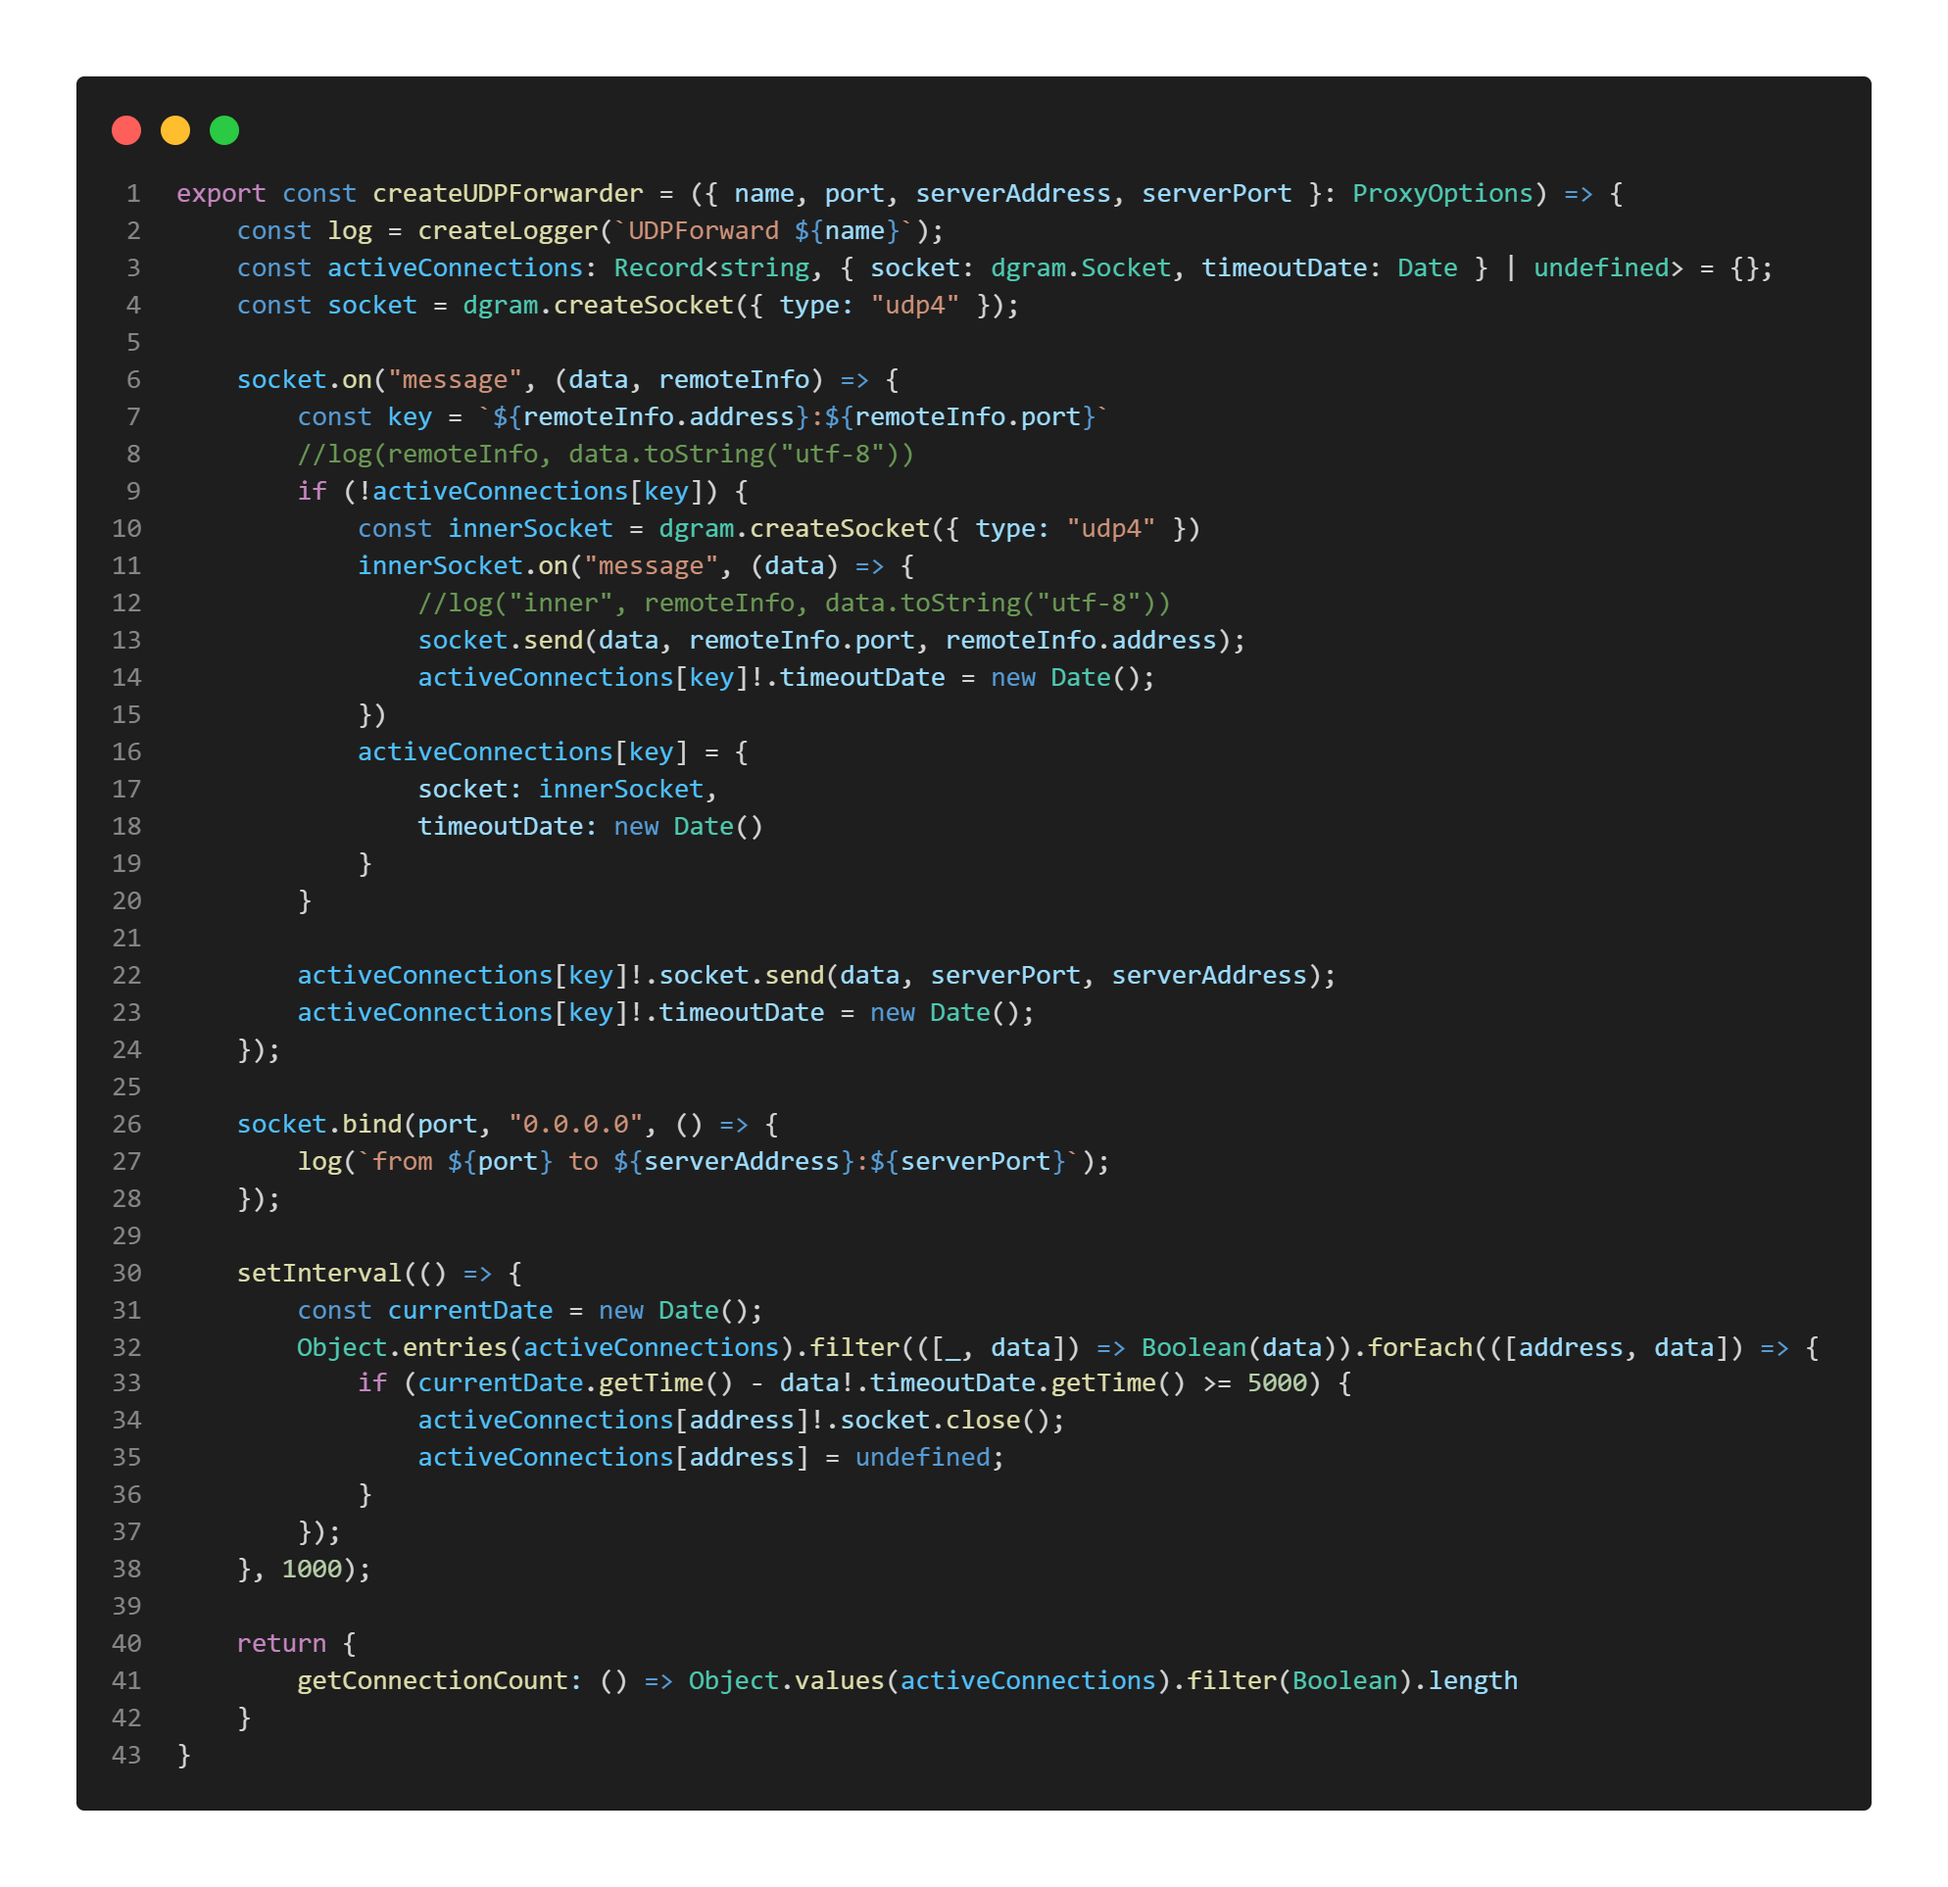
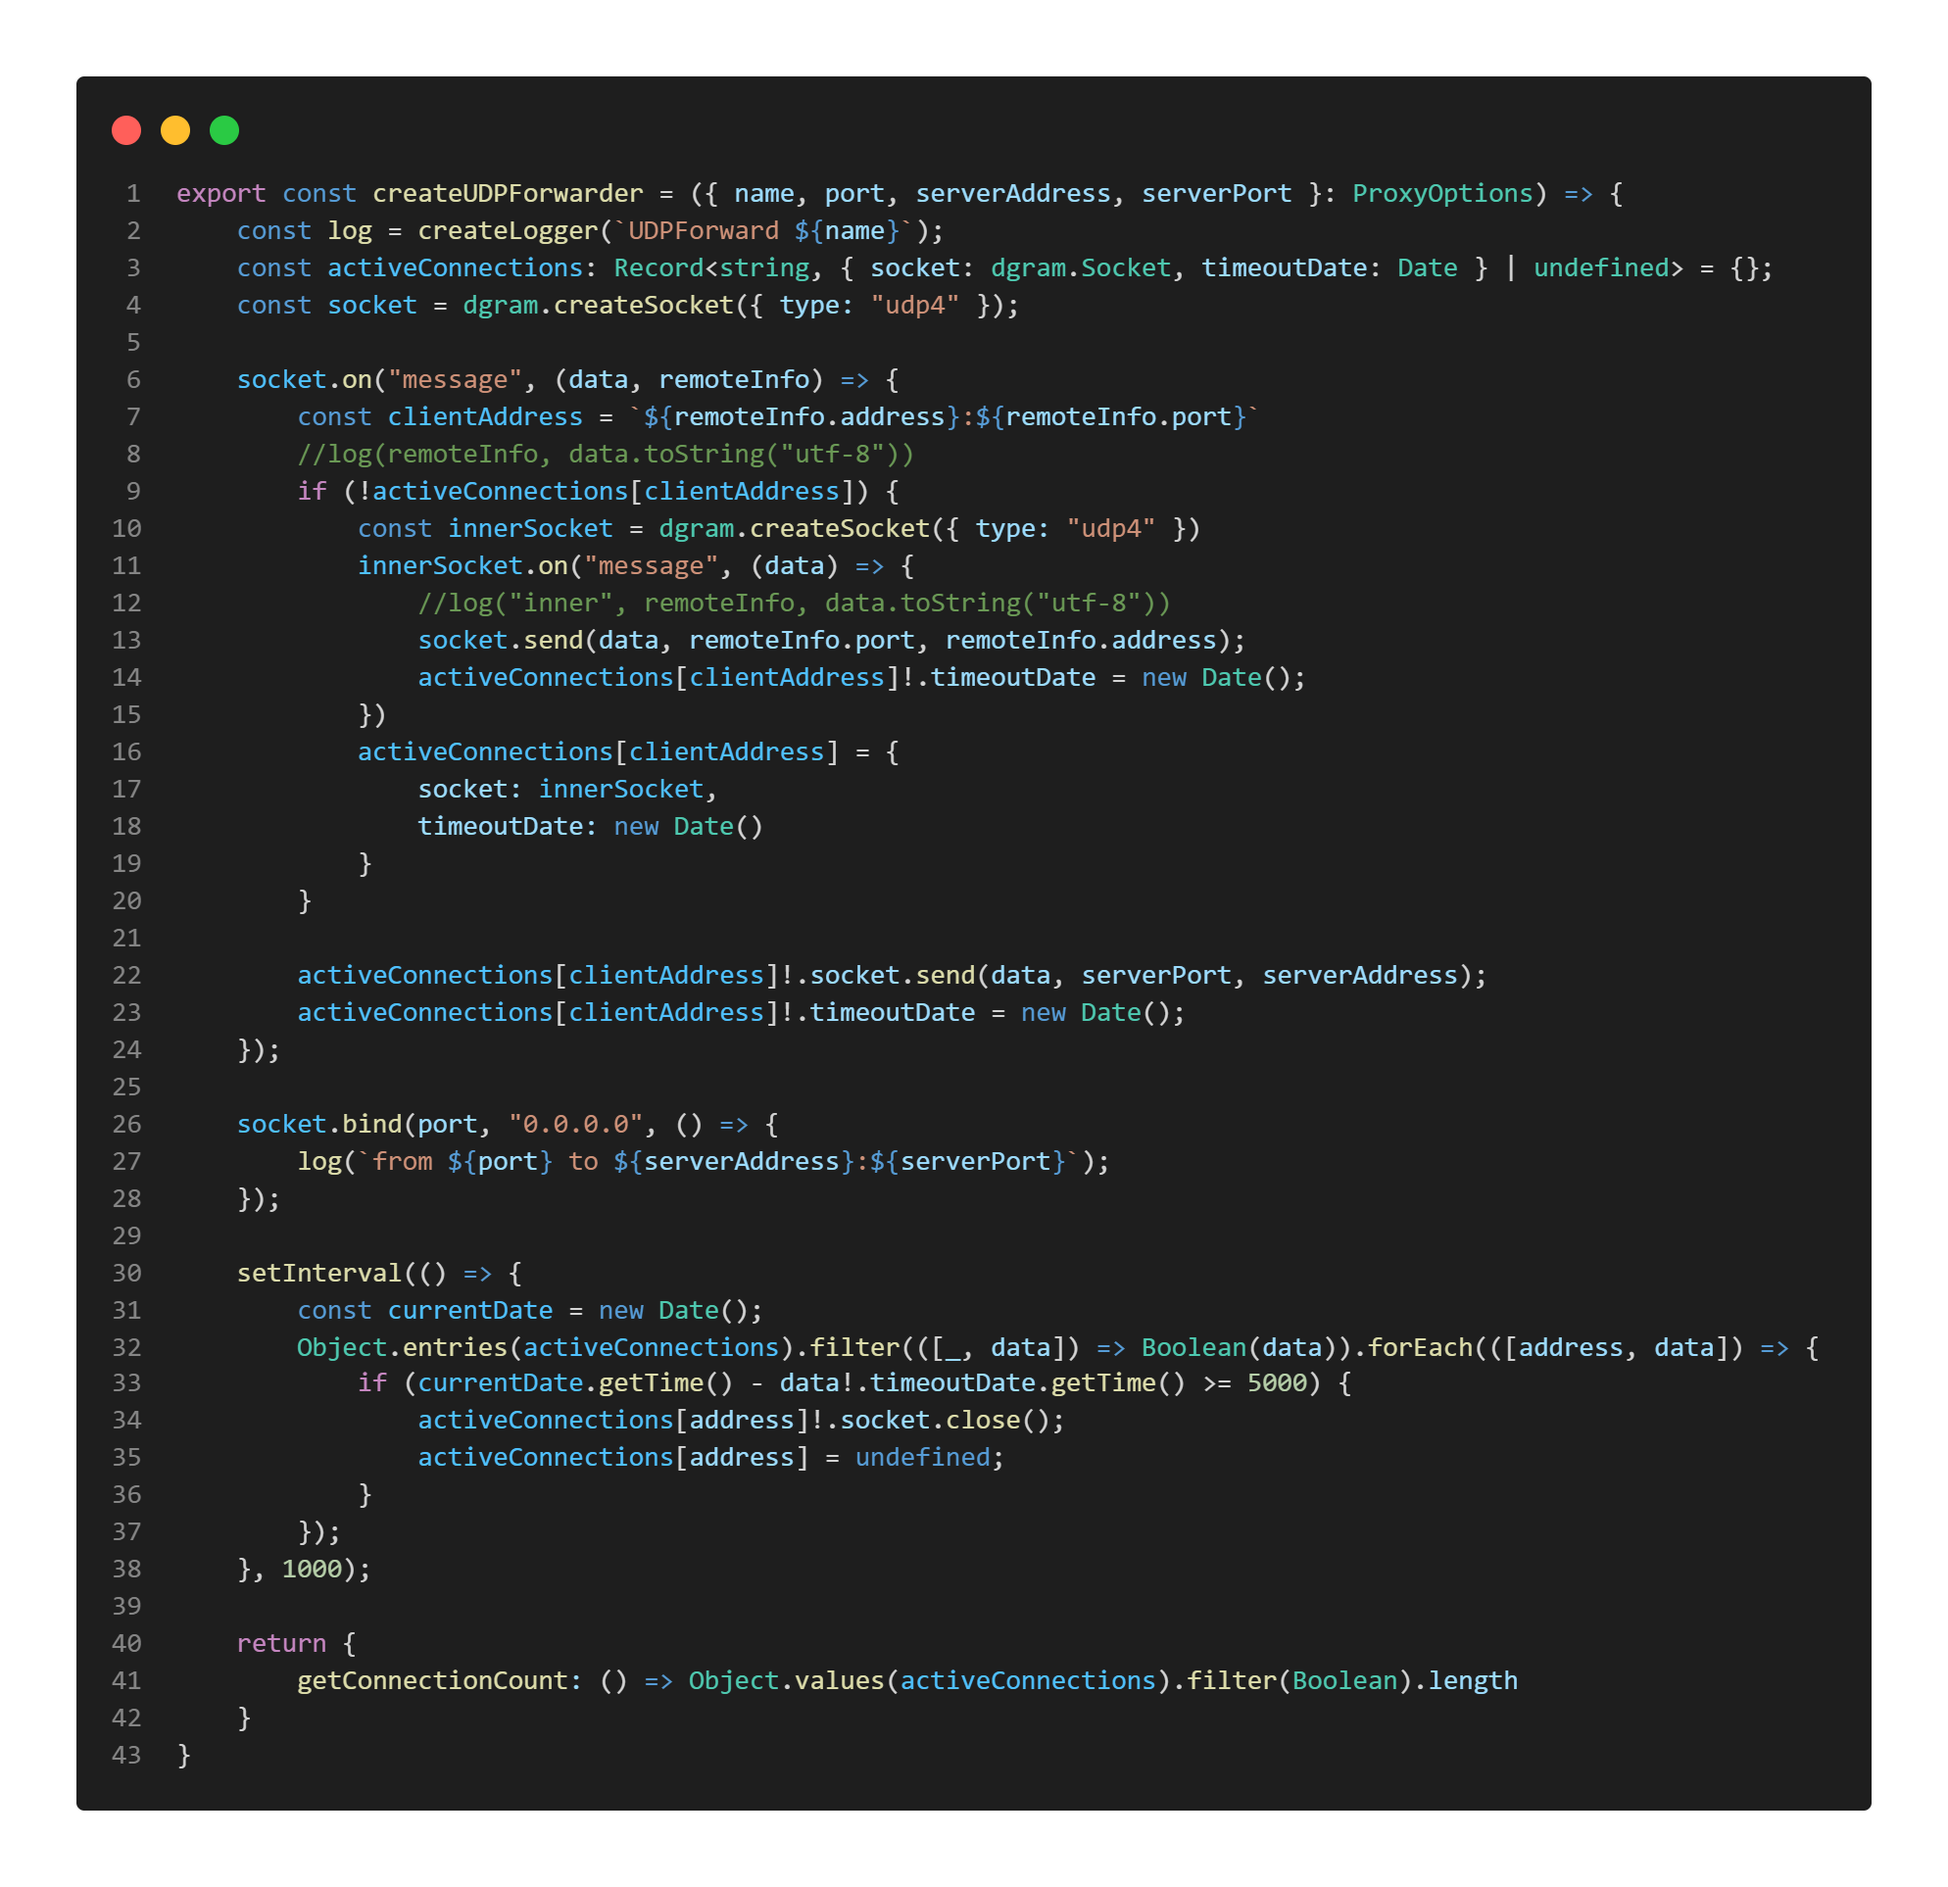
renamed key to something meaningful

Changed region(s): [[0.2807, 0.4984, 0.7485, 0.5607], [0.2183, 0.2181, 0.6237, 0.2804], [0.3119, 0.3427, 0.6549, 0.405]]

diff --git a/apps/forwarder/src/createForwarder.ts b/apps/forwarder/src/createForwarder.ts
@@ -15,23 +15,23 @@ export const createUDPForwarder = ({ name, port, serverAddress, serverPort }: Pr
     const socket = dgram.createSocket({ type: "udp4" });
 
     socket.on("message", (data, remoteInfo) => {
-        const key = `${remoteInfo.address}:${remoteInfo.port}`
+        const clientAddress = `${remoteInfo.address}:${remoteInfo.port}`
         //log(remoteInfo, data.toString("utf-8"))
-        if (!activeConnections[key]) {
+        if (!activeConnections[clientAddress]) {
             const innerSocket = dgram.createSocket({ type: "udp4" })
             innerSocket.on("message", (data) => {
                 //log("inner", remoteInfo, data.toString("utf-8"))
                 socket.send(data, remoteInfo.port, remoteInfo.address);
-                activeConnections[key]!.timeoutDate = new Date();
+                activeConnections[clientAddress]!.timeoutDate = new Date();
             })
-            activeConnections[key] = {
+            activeConnections[clientAddress] = {
                 socket: innerSocket,
                 timeoutDate: new Date()
             }
         }
 
-        activeConnections[key]!.socket.send(data, serverPort, serverAddress);
-        activeConnections[key]!.timeoutDate = new Date();
+        activeConnections[clientAddress]!.socket.send(data, serverPort, serverAddress);
+        activeConnections[clientAddress]!.timeoutDate = new Date();
     });
 
     socket.bind(port, "0.0.0.0", () => {
@@ -57,10 +57,10 @@ export const createTCPForwarder = ({ name, port, serverAddress, serverPort }: Pr
     const log = createLogger(`TCPForward ${name}`);
     const activeConnections: Record<string, net.Socket | undefined> = {};
     const server = net.createServer((socket => {
-        const key = `${socket.remoteAddress!}:${socket.remotePort!}`
+        const clientAddress = `${socket.remoteAddress!}:${socket.remotePort!}`
         socket.on("data", (data) => {
             //log(socket.remotePort, socket.remoteAddress, data.toString("utf-8"));
-            if (!activeConnections[key]) {
+            if (!activeConnections[clientAddress]) {
                 const innerSocket = net.connect(serverPort, serverAddress);
                 innerSocket.on("data", (data) => {
                     //log("inner", socket.remotePort, socket.remoteAddress, data.toString("utf-8"))
@@ -68,14 +68,14 @@ export const createTCPForwarder = ({ name, port, serverAddress, serverPort }: Pr
                 }).on("close", () => {
                     if (!socket.closed) socket.end();
                 })
-                activeConnections[key] = innerSocket;
+                activeConnections[clientAddress] = innerSocket;
             }
-            activeConnections[key]!.write(data);
+            activeConnections[clientAddress]!.write(data);
         }).on("close", () => {
-            if (activeConnections[key] && !activeConnections[key]!.closed) {
-                activeConnections[key]!.end();
+            if (activeConnections[clientAddress] && !activeConnections[clientAddress]!.closed) {
+                activeConnections[clientAddress]!.end();
             }
-            activeConnections[key] = undefined;
+            activeConnections[clientAddress] = undefined;
         })
     }));
 
